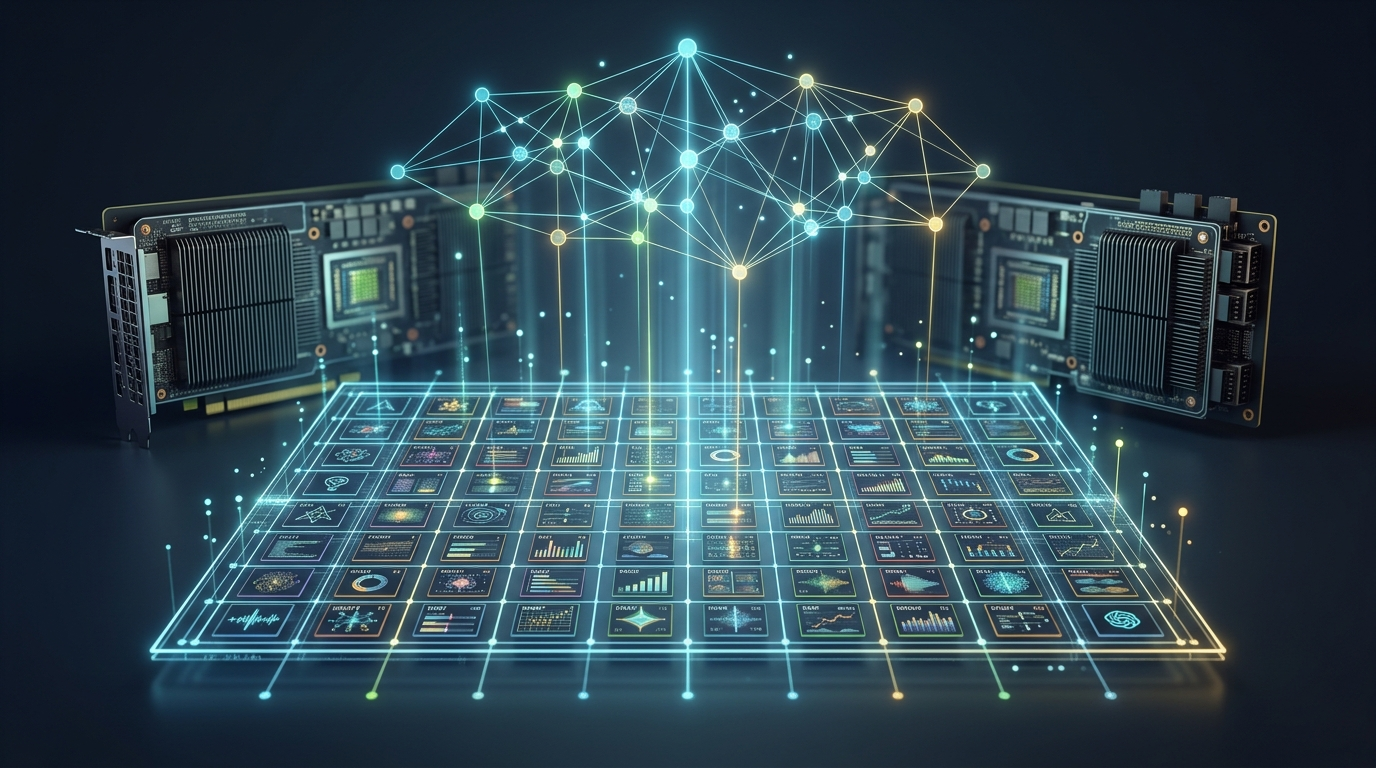
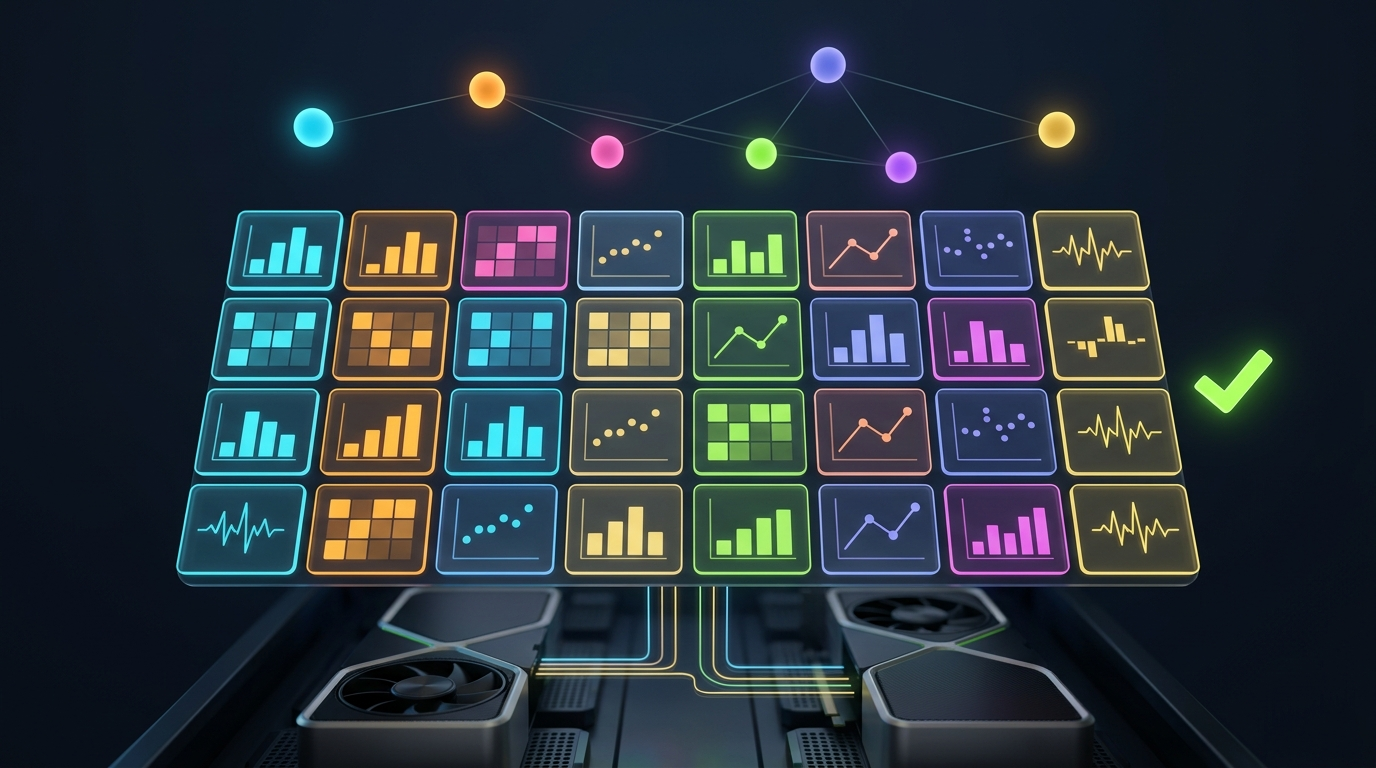
docs(images): refresh hub illustrations to reflect current state
Regenerated all three hub-level nano-banana illustrations with prompts that
reflect the post-2026-05-12 state of the hub: 5 studies on the timeline, the
v3 leak finding folded in, production validation indicated by checkmark seals,
and dual Blackwell GPUs grounding the visual story.

Prompts hardened against AI-slop text artifacts:
- Explicit ban on empty callout boxes, speech bubbles, blank label frames
  (which read as 'missing text' on first regen of hub_hero)
- Explicit ban on numerals, pseudo-text squiggles, watermarks, logos
- Use only pure geometric chart shapes (bars, dots, lines, ticks)

QA via look_at on each output:
- hub_hero.png:        9/10, 0 text artifacts (regen v3 after v2 had blank callouts)
- studies_index.png:   9/10, 0 text artifacts
- sota_leaderboard.png: 8/10, 0 text artifacts

Old versions preserved in docs/images/archive/ for rollback.

diff --git a/docs/gen_images.py b/docs/gen_images.py
@@ -11,31 +11,62 @@ MODEL = "gemini-3.1-flash-image-preview"
 
 PROMPTS = {
     "hub_hero": (
-        "A wide cinematic 16:9 hero banner for an open-source LLM benchmarking research hub. "
-        "Centered: a glowing blueprint-style table or matrix grid with floating data points and "
-        "tiny multi-colored result tiles, each tile tagged with a different study label. "
-        "Behind the matrix, dual NVIDIA Blackwell-class data-center GPUs are visible in soft "
-        "background bokeh. Above the matrix, a constellation of interconnected nodes glows "
-        "(representing many studies forming one body of work). Deep navy and charcoal background, "
-        "electric cyan, lime, and amber accents. Clean technical-poster aesthetic. "
-        "No readable text, no logos, no watermarks. "
-        "Style: precise modern infographic meets cinematic 3D render."
+        "A wide cinematic 16:9 hero banner for an open-source LLM benchmarking research "
+        "hub on NVIDIA Blackwell hardware. Centered foreground: a large glowing 3D matrix "
+        "of result tiles arranged as a 4x6 grid, each tile a different accent color and "
+        "showing stylized abstract chart silhouettes inside (bar charts, line plots, heat "
+        "map cells, sparkline pulses). The matrix has subtle depth, slight tilt for "
+        "3D perspective, with translucent glass-like tiles glowing from within. Behind "
+        "and below the matrix, two NVIDIA Blackwell-class data-center GPUs sit in a server "
+        "rack rendered in soft deep bokeh, with thin glowing tensor-parallel link traces "
+        "flowing between them. Above the matrix, instead of callout bubbles or speech "
+        "balloons, there is a CONSTELLATION of 5 to 7 small glowing solid orb nodes "
+        "floating in space, each orb a different solid color (cyan, amber, magenta, lime, "
+        "violet, gold), connected only by thin faint glowing line traces between them. "
+        "The orbs are simple geometric spheres with internal glow — they have NO callout "
+        "boxes, NO speech bubbles, NO label boxes, NO empty rectangles attached. To the "
+        "far right side of the matrix, a single bright lime-green checkmark seal glows "
+        "subtly, hinting at production validation. AVOID any letters, characters, numerals, "
+        "code, glyphs that look like text, pseudo-text squiggles, OR any empty rectangular "
+        "frames / callout shapes that LOOK like they should contain text. Use only pure "
+        "geometric chart shapes (bars, dots, lines, ticks). Deep navy and charcoal "
+        "background, electric cyan and amber as the dominant accents, lime green and "
+        "magenta as secondary highlights. Clean modern technical-poster aesthetic, precise "
+        "infographic feel with cinematic 3D render quality, sharp focus on the matrix, "
+        "soft depth-of-field behind. "
+        "ABSOLUTELY NO TEXT, NO LETTERS, NO NUMBERS, NO LOGOS, NO WATERMARKS, NO LABELS, "
+        "NO EMPTY CALLOUT BOXES, NO SPEECH BUBBLES."
     ),
     "studies_index": (
-        "A horizontal infographic illustration of a research studies index: a vertical timeline "
-        "running left-to-right, with 4-5 glowing study cards anchored along it. Each card is "
-        "stylized as a folder or report icon with a colored tag (cyan, amber, magenta, lime, "
-        "violet) and small abstract chart silhouettes inside. Connecting glowing line traces "
-        "show how each study links to the next. Dark navy backdrop, neon technical aesthetic. "
-        "No readable text, no logos, no watermarks."
+        "A wide 16:9 horizontal infographic illustration of a research studies index. A "
+        "glowing horizontal timeline runs from left to right across the image, with 5 "
+        "distinct study cards anchored along it at evenly-spaced positions. Each card is "
+        "stylized as a translucent glass folder or report tile, with a different colored "
+        "tag at its top (cyan, amber, magenta, lime, violet from left to right) and small "
+        "abstract chart silhouettes inside (bar charts, line plots, scatter dots). The "
+        "cards progressively gain visual richness left-to-right — the leftmost is simple, "
+        "the rightmost is most elaborate — suggesting cumulative depth. Connecting glowing "
+        "line traces flow between cards along the timeline, with small data-point sparks "
+        "traveling along them. The rightmost card has a subtle green checkmark seal in "
+        "its corner, suggesting it's the production-validated outcome. Deep navy backdrop, "
+        "neon technical aesthetic with electric cyan + amber + lime accents. AVOID any "
+        "letters, numerals, or text-like glyphs — use only pure geometric shapes. "
+        "ABSOLUTELY NO TEXT, NO LETTERS, NO NUMBERS, NO LOGOS, NO WATERMARKS, NO LABELS."
     ),
     "sota_leaderboard": (
-        "A clean illustration of a leaderboard / SOTA scoreboard for ML inference benchmarks. "
-        "Three horizontal podium-style bars stacked vertically, each glowing a different color "
-        "(gold, silver, bronze accent), with abstract performance graph silhouettes behind them. "
-        "To the side, a small grid of comparison heatmap cells. Dark cinematic background, "
-        "neon cyan and amber highlights, modern data-visualization poster aesthetic. "
-        "No readable text labels, no logos, no watermarks."
+        "A clean cinematic 16:9 illustration of a leaderboard / SOTA scoreboard for ML "
+        "inference benchmarks. Centered: three horizontal podium-style bars stacked "
+        "vertically, each glowing a different metallic accent (gold on top, silver in "
+        "middle, bronze at bottom), each bar with stylized abstract bar-chart silhouettes "
+        "flowing inside it as if it contains live data. To the right of the podium, a "
+        "medium-size grid of comparison heatmap cells glows with varying cyan-to-amber "
+        "intensities. To the left, three small floating result tiles hover with mini line "
+        "plots inside. In the background, a soft bokeh of dual Blackwell-class GPUs hints "
+        "at the hardware platform. Deep navy and charcoal cinematic background, neon cyan "
+        "and amber highlights as primary accents, metallic gold/silver/bronze on the podium "
+        "bars. Modern data-visualization poster aesthetic, sharp and precise. AVOID any "
+        "letters, numerals, or text-like glyphs — use only pure geometric shapes. "
+        "ABSOLUTELY NO TEXT, NO LETTERS, NO NUMBERS, NO LOGOS, NO WATERMARKS, NO LABELS."
     ),
 }
 
